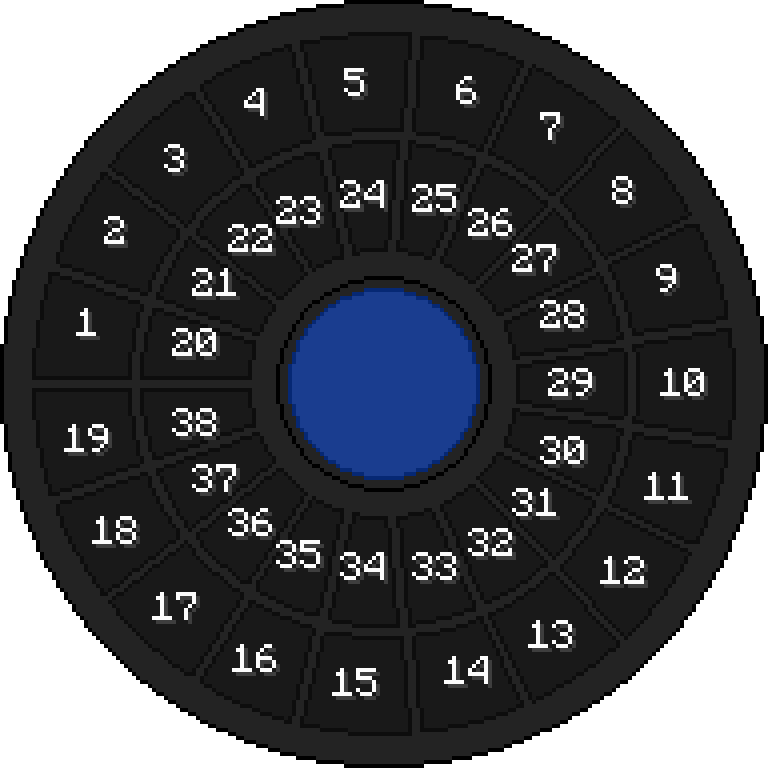
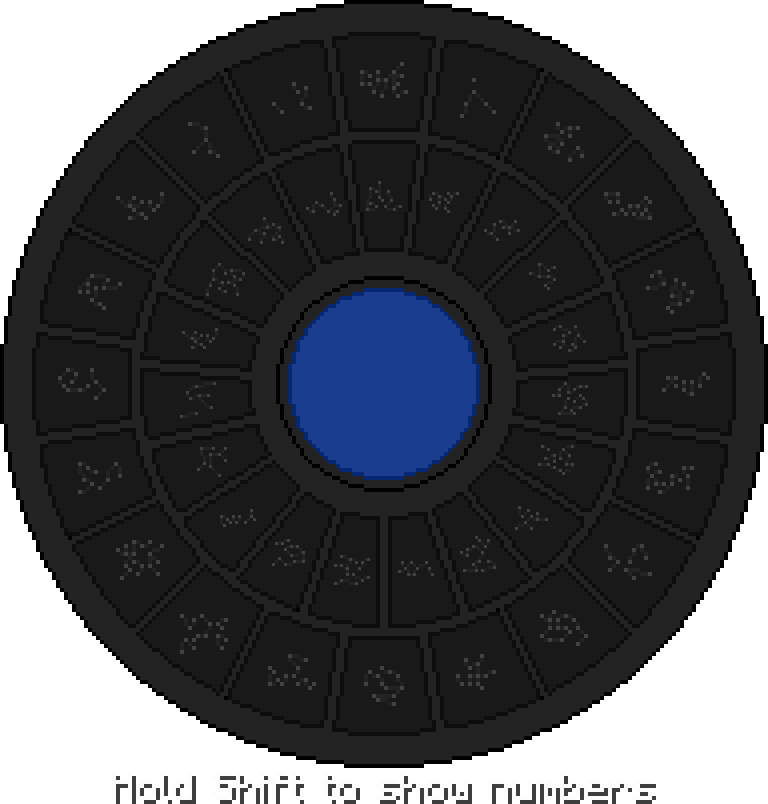
[Feat] Fix invalid links to stargate symbol images, update DHD GUI

diff --git a/stargate-technology/stargate.md b/stargate-technology/stargate.md
@@ -76,19 +76,19 @@ function toggleSymbolNumbers() {
 <div class="symbols-container">
 
 MilkyWay
-<img alt="MilkyWay symbols" class="width-100 min-width-1000 pixel-image" src="https://raw.githubusercontent.com/Povstalec/StargateJourney/refs/heads/main/src/main/resources/assets/sgjourney/textures/symbols/milky_way/galaxy_milky_way.png">
+<img alt="MilkyWay symbols" class="width-100 min-width-1000 pixel-image" src="https://raw.githubusercontent.com/Povstalec/StargateJourney/7a24f017dbda18a34a5f64a5186a8ded243ececb/src/main/resources/assets/sgjourney/textures/symbols/milky_way/galaxy_milky_way.png">
 <img alt="Symbol numbers" class="symbol-numbers-img width-100 min-width-1000 pixel-image" src="{{ '/assets/img/symbol_numbers.png' | absolute_url }}">
 
 Pegasus  
-<img alt="Pegasus symbols" class="width-100 min-width-1000 pixel-image" src="https://raw.githubusercontent.com/Povstalec/StargateJourney/refs/heads/main/src/main/resources/assets/sgjourney/textures/symbols/pegasus/galaxy_pegasus.png">
+<img alt="Pegasus symbols" class="width-100 min-width-1000 pixel-image" src="https://raw.githubusercontent.com/Povstalec/StargateJourney/7a24f017dbda18a34a5f64a5186a8ded243ececb/src/main/resources/assets/sgjourney/textures/symbols/pegasus/galaxy_pegasus.png">
 <img alt="Symbol numbers" class="symbol-numbers-img width-100 min-width-1000 pixel-image" src="{{ '/assets/img/symbol_numbers.png' | absolute_url }}">
 
 Universal  
-<img alt="Universal symbols" class="width-100 min-width-1000 pixel-image" src="https://raw.githubusercontent.com/Povstalec/StargateJourney/refs/heads/main/src/main/resources/assets/sgjourney/textures/symbols/universal/universal.png">
+<img alt="Universal symbols" class="width-100 min-width-1000 pixel-image" src="https://raw.githubusercontent.com/Povstalec/StargateJourney/7a24f017dbda18a34a5f64a5186a8ded243ececb/src/main/resources/assets/sgjourney/textures/symbols/universal/universal.png">
 <img alt="Symbol numbers" class="symbol-numbers-img width-100 min-width-1000 pixel-image" src="{{ '/assets/img/universal_symbol_numbers.png' | absolute_url }}">
 
 Kaliem  
-<img alt="Kaliem symbols" class="width-100 min-width-1000 pixel-image" src="https://raw.githubusercontent.com/Povstalec/StargateJourney/refs/heads/main/src/main/resources/assets/sgjourney/textures/symbols/kaliem/galaxy_kaliem.png">
+<img alt="Kaliem symbols" class="width-100 min-width-1000 pixel-image" src="https://raw.githubusercontent.com/Povstalec/StargateJourney/7a24f017dbda18a34a5f64a5186a8ded243ececb/src/main/resources/assets/sgjourney/textures/symbols/kaliem/galaxy_kaliem.png">
 <img alt="Symbol numbers" class="symbol-numbers-img width-100 min-width-1000 pixel-image" src="{{ '/assets/img/symbol_numbers.png' | absolute_url }}">
 
 </div>

diff --git a/stargate-technology/dhd.md b/stargate-technology/dhd.md
@@ -24,10 +24,13 @@ It allows controlling stargates, encoding symbols, dialing an address, and suppl
 
 ## Inventory
 Each DHD has a dialing user interface with symbol buttons, which can be opened by **right-clicking the DHD from the top**.
+By default, the DHD shows symbols, respective numbers are shown while holding shift.
 
-{: .future }
-In the future, the numbers will be replaced with actual symbols,
-with an option to still view numbers while holding the shift key.
+This behavior can be changed in `sgjourney-client.toml` config file.
+```toml
+#If true, DHD buttons will render symbols by default, otherwise they'll be render numbers by default
+dhd_symbols_numbers = true
+```
 
 <div class="flex-row flex-wrap">
 <img alt="Milkyway DHD interface" class="max-width-512" style="margin: 1rem"
@@ -39,7 +42,7 @@ with an option to still view numbers while holding the shift key.
 
 Secondly, it has a crystal inventory, which can be opened by **right-clicking the DHD from any side, except the top**
 (or by shift-right clicking from the top with an empty hand).
-The inventory holds crystals modifying DHD capabilities and a power source.
+The inventory holds crystals modifying DHD capabilities, Stargate behavior and a power source.
 
 
 ![Empty DHD inventory]({{ '/assets/img/gui/dhd_inventory_empty.png' | absolute_url }})
@@ -66,9 +69,12 @@ The power source slot to the right can hold **any modded container (a battery)**
 Naturally generated DHDs contain the [fusion core]({{ '/items/functional-items/fusion-core/' | absolute_url }}).
 It can be replaced with the [naquadah generator core]({{ '/items/functional-items/naquadah-generator-core/' | absolute_url }}),
 which requires fuel to run. The fuel can be provided in the second slot underneath the first one.
+Naquadah power cell can be used as a power source as well.
+
+[//]: # (TODO: Add link to naquadah power cell)
 
 In the creative, the [Zero Point Module (ZPM)]({{ '/items/functional-items/zpm/' | absolute_url }}) 
-can also be used as a powerful power source in the DHD.
+can also be used as a powerful power source directly in the DHD.
 
 ## Crafting
 
@@ -88,3 +94,5 @@ When the DHD with a large control crystal enables advanced protocols, the gate w
 
 See [Stargate Technology / DHD Crystals]({{ '/stargate-technology/crystals/dhd-crystals' | absolute_url }})
 for a description of specific crystals.
+
+[//]: # (TODO: explain what each crystal does when placed in DHD)
